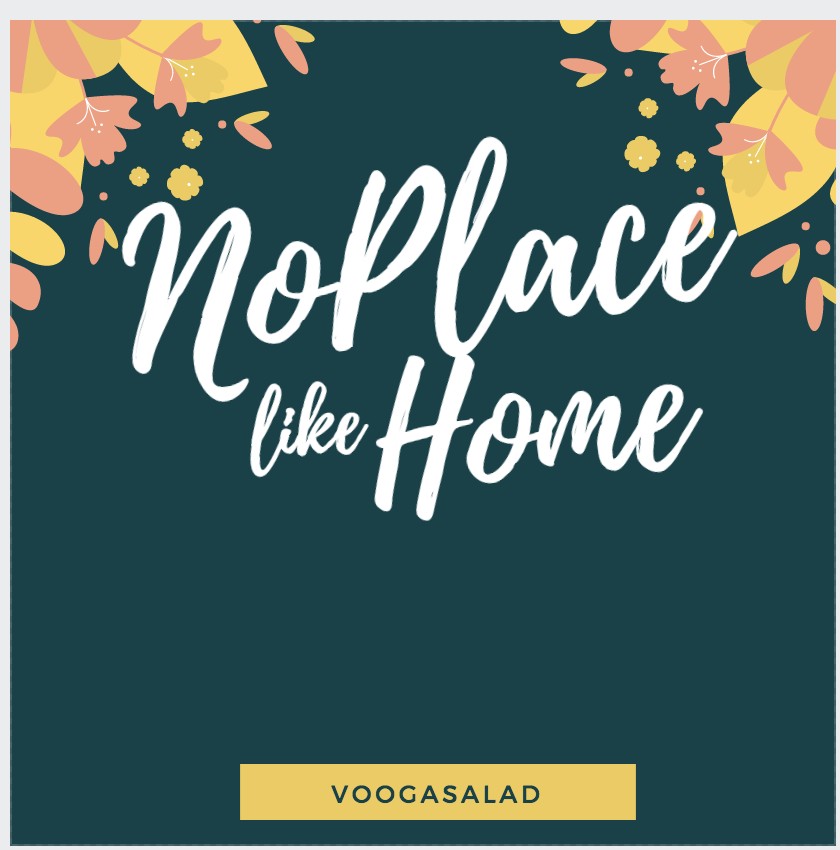
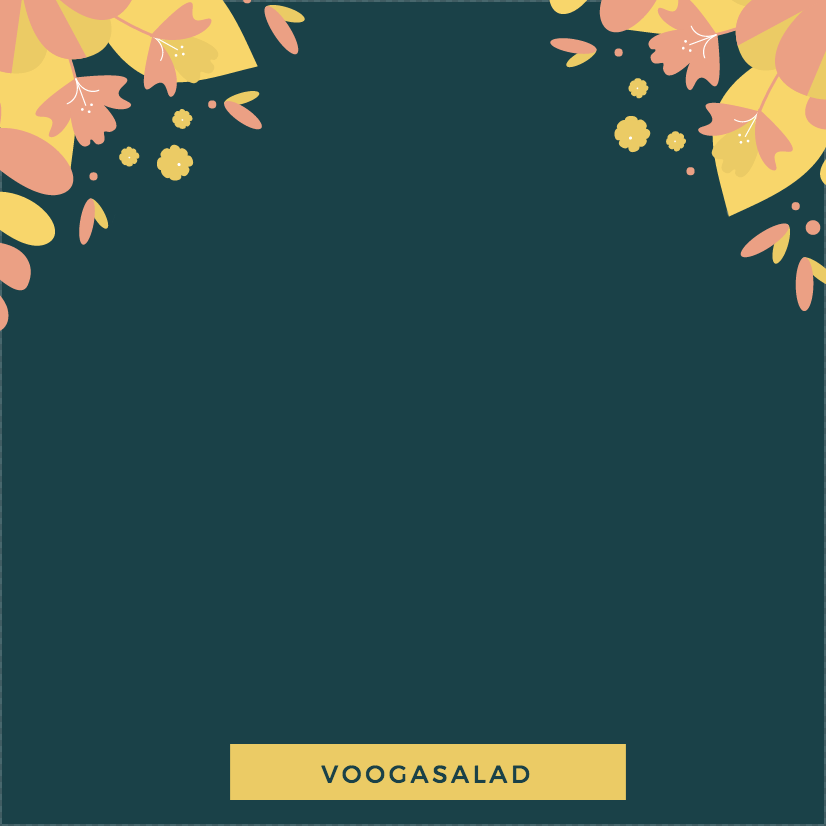
demo chat client ready

Changed region(s): [[0.0, 0.0, 1.0, 1.0]]

diff --git a/src/VoogaClientMain.java b/src/VoogaClientMain.java
@@ -21,9 +21,7 @@ import util.net.ObservableClient;
 
 import java.io.IOException;
 import java.time.Duration;
-import java.util.Collection;
-import java.util.Locale;
-import java.util.ResourceBundle;
+import java.util.*;
 import java.util.concurrent.Executors;
 import java.util.stream.Collectors;
 
@@ -37,12 +35,24 @@ public class VoogaClientMain extends Application {
 	public static final String HOST = ObservableClient.LOCALHOST;
 	public static final int TIMEOUT = 20;
 	public static final String CHATBOX = "\n\n\n\n\n\n\n\n\n\n\n\n\n\n\n\n\n\n\n\n\n\n\n------------TEST GAME STATE CHAT LOG------------\n\n%s\n\n >>  ";
-	private static ObservableClient<GameplayState> client;
-	private static GameplayState gameplayState;
-	private static ChatLogView chatLogView;
+	private ObservableClient<GameplayState> client;
+	private GameplayState gameplayState;
+	private ChatLogView chatLogView;
 
 	public static void main(String[] args) throws IOException, InterruptedException {
-		String name = System.getProperty("user.name");
+		launch(args);
+//		Scanner stdin = new Scanner(System.in);
+//		String pName = name;
+//		while (client.isActive()) {
+//			String input = stdin.nextLine();
+//			client.addToOutbox(state -> state.messageAll(input, state.getPlayerByName(pName)));
+//		}
+	}
+
+	@Override
+	public void start(Stage primaryStage) throws IOException {
+		primaryStage.setTitle(ResourceBundle.getBundle("resources/Selections", Locale.getDefault()).getString("Title"));
+		String name = System.getProperty("user.name") + new Random().nextInt(10);
 		XMLSerializer<GameplayState> serializer = new XMLSerializer<>();
 		client = new ObservableClient<>(HOST, PORT, serializer, serializer, Duration.ofSeconds(TIMEOUT));
 		client.addListener(state -> {
@@ -58,18 +68,7 @@ public class VoogaClientMain extends Application {
 			state.addPlayer(new Player(name, "It's me!", ""));
 			return state;
 		});
-		launch(args);
-//		Scanner stdin = new Scanner(System.in);
-//		while (client.isActive()) {
-//			String input = stdin.nextLine();
-//			client.addToOutbox(state -> state.messageAll(input, state.getPlayerByName(name)));
-//		}
-	}
-
-	@Override
-	public void start(Stage primaryStage) {
-		primaryStage.setTitle(ResourceBundle.getBundle("resources/Selections", Locale.getDefault()).getString("Title"));
-		chatLogView = new ChatLogView(System.getProperty("user.name"), new Controller<GameplayState>() {
+		chatLogView = new ChatLogView(name, new Controller<GameplayState>() {
 			@Override
 			public GameBoard getGrid() {
 				return null;
@@ -108,6 +107,7 @@ public class VoogaClientMain extends Application {
 			@Override
 			public void sendModifier(Modifier<GameplayState> modifier) {
 				client.addToOutbox(modifier);
+				System.out.println(name);
 			}
 
 			@Override
@@ -140,7 +140,7 @@ public class VoogaClientMain extends Application {
 
 			}
 		});
-		Scene scene = new Scene(chatLogView.getObject(), 500, 500, new ImagePattern(new Image("resources/images/testImage.jpg")));
+		Scene scene = new Scene(chatLogView.getObject(), 500, 500, new ImagePattern(new Image("resources/images/splash.png")));
 		scene.getStylesheets().add("resources/styles/notheme.css");
 		primaryStage.setScene(scene);
 		primaryStage.setResizable(true);

diff --git a/src/frontend/util/ChatLogView.java b/src/frontend/util/ChatLogView.java
@@ -25,16 +25,14 @@ public class ChatLogView extends BaseUIManager {
 	private final BorderPane pane;
 	private final TextArea textArea;
 	private final String playerName;
-	private final Controller<GameplayState> controller;
-	private final String header = "\n\n\n\n\n\n\n\n\n\n\n\n\n------------TEST GAME STATE CHAT LOG------------";
 
 	public ChatLogView(String playerName, Controller<GameplayState> controller) {
+		super(controller);
 		pane = new BorderPane();
 		textArea = initTextArea();
 		pane.setCenter(textArea);
 		pane.setBottom(initTextInputBox());
 		this.playerName = playerName;
-		this.controller = controller;
 	}
 
 	@Override
@@ -49,7 +47,8 @@ public class ChatLogView extends BaseUIManager {
 	}
 
 	public void update() {
-		textArea.setText(header+ "\n" + controller.getGameState()
+		String header = "\n\n\n\n\n\n\n\n\n\n\n\n\n------------TEST GAME STATE CHAT LOG------------";
+		textArea.setText(header + "\n" + getController().getGameState()
 				.getPlayerByName(playerName)
 				.getChatLog()
 				.stream()
@@ -69,7 +68,7 @@ public class ChatLogView extends BaseUIManager {
 		chatModeChooser.setOnAction(event -> showOrHideRecipientField(bottomBox, chatModeChooser, label1, messageRecipientField));
 		TextField textContentInputField = new TextField();
 		textContentInputField.setPrefWidth(600);
-		textContentInputField.setOnKeyPressed(evt -> submitMessage(evt, chatModeChooser, textContentInputField));
+		textContentInputField.setOnKeyPressed(evt -> submitMessage(evt, chatModeChooser, textContentInputField, messageRecipientField));
 		bottomBox.getChildren().addAll(chatModeChooser, textContentInputField);
 		return bottomBox;
 	}
@@ -92,9 +91,9 @@ public class ChatLogView extends BaseUIManager {
 		}
 	}
 
-	private void submitMessage(KeyEvent evt, ComboBox<ChatMessage.AccessLevel> chatModeChooser, TextField textContentInputField) {
+	private void submitMessage(KeyEvent evt, ComboBox<ChatMessage.AccessLevel> chatModeChooser, TextField textContentInputField, TextField messageRecipientField) {
 		if (evt.getCode() == KeyCode.ENTER) {
-			controller.sendModifier(chatModeChooser.getValue().getSendMessageModifier(textContentInputField.getText(), playerName));
+			getController().sendModifier(chatModeChooser.getValue().getSendMessageModifier(textContentInputField.getText(), playerName,messageRecipientField.getText()));
 			try {
 				Thread.sleep(300);
 			} catch (InterruptedException e) {

diff --git a/src/util/net/SocketConnection.java b/src/util/net/SocketConnection.java
@@ -51,7 +51,7 @@ public class SocketConnection {
 		try (ObjectInputStream inputStream = new ObjectInputStream(socket.getInputStream())) {
 			while (isActive()) {
 				Request request = (Request) inputStream.readObject();
-//				System.out.println("Receive" + request);
+				System.out.println("Receive" + request);
 				executor.execute(() -> requestHandler.accept(request));
 			}
 		} catch (IOException e) {
@@ -71,7 +71,7 @@ public class SocketConnection {
 	 * @return Returns true if the request was sent successfully
 	 */
 	public synchronized boolean send(Request request) {
-//		System.out.println("Send " + request);
+		System.out.println("Send " + request);
 		try {
 			outputStream.writeObject(request);
 			return isActive();

diff --git a/src/backend/util/GameplayState.java b/src/backend/util/GameplayState.java
@@ -220,6 +220,7 @@ public class GameplayState extends ImmutableVoogaObject implements ReadonlyGamep
 
 	public GameplayState messagePlayer(String message, ImmutablePlayer sender, ImmutablePlayer recipient) {
 		ChatMessage chatMessage = new ChatMessage(ChatMessage.AccessLevel.WHISPER, sender, message);
+		System.out.println("Receiver: " + recipient);
 		sender.receiveMessage(chatMessage);
 		recipient.receiveMessage(chatMessage);
 		return this;
